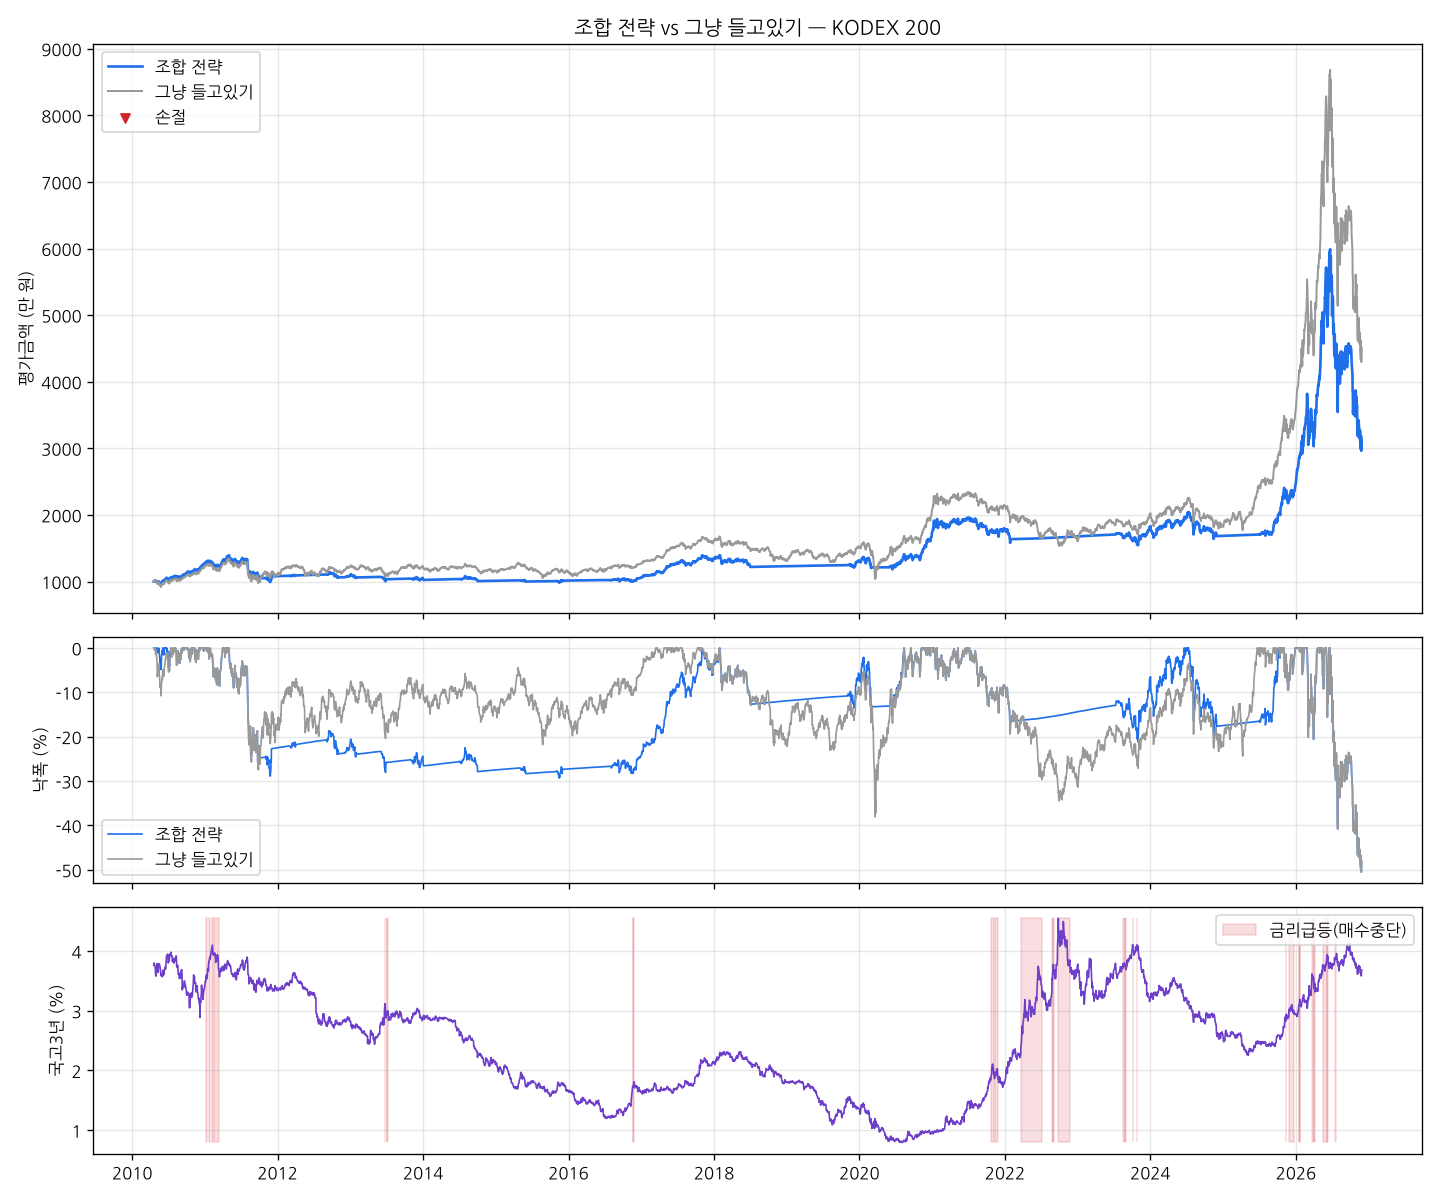
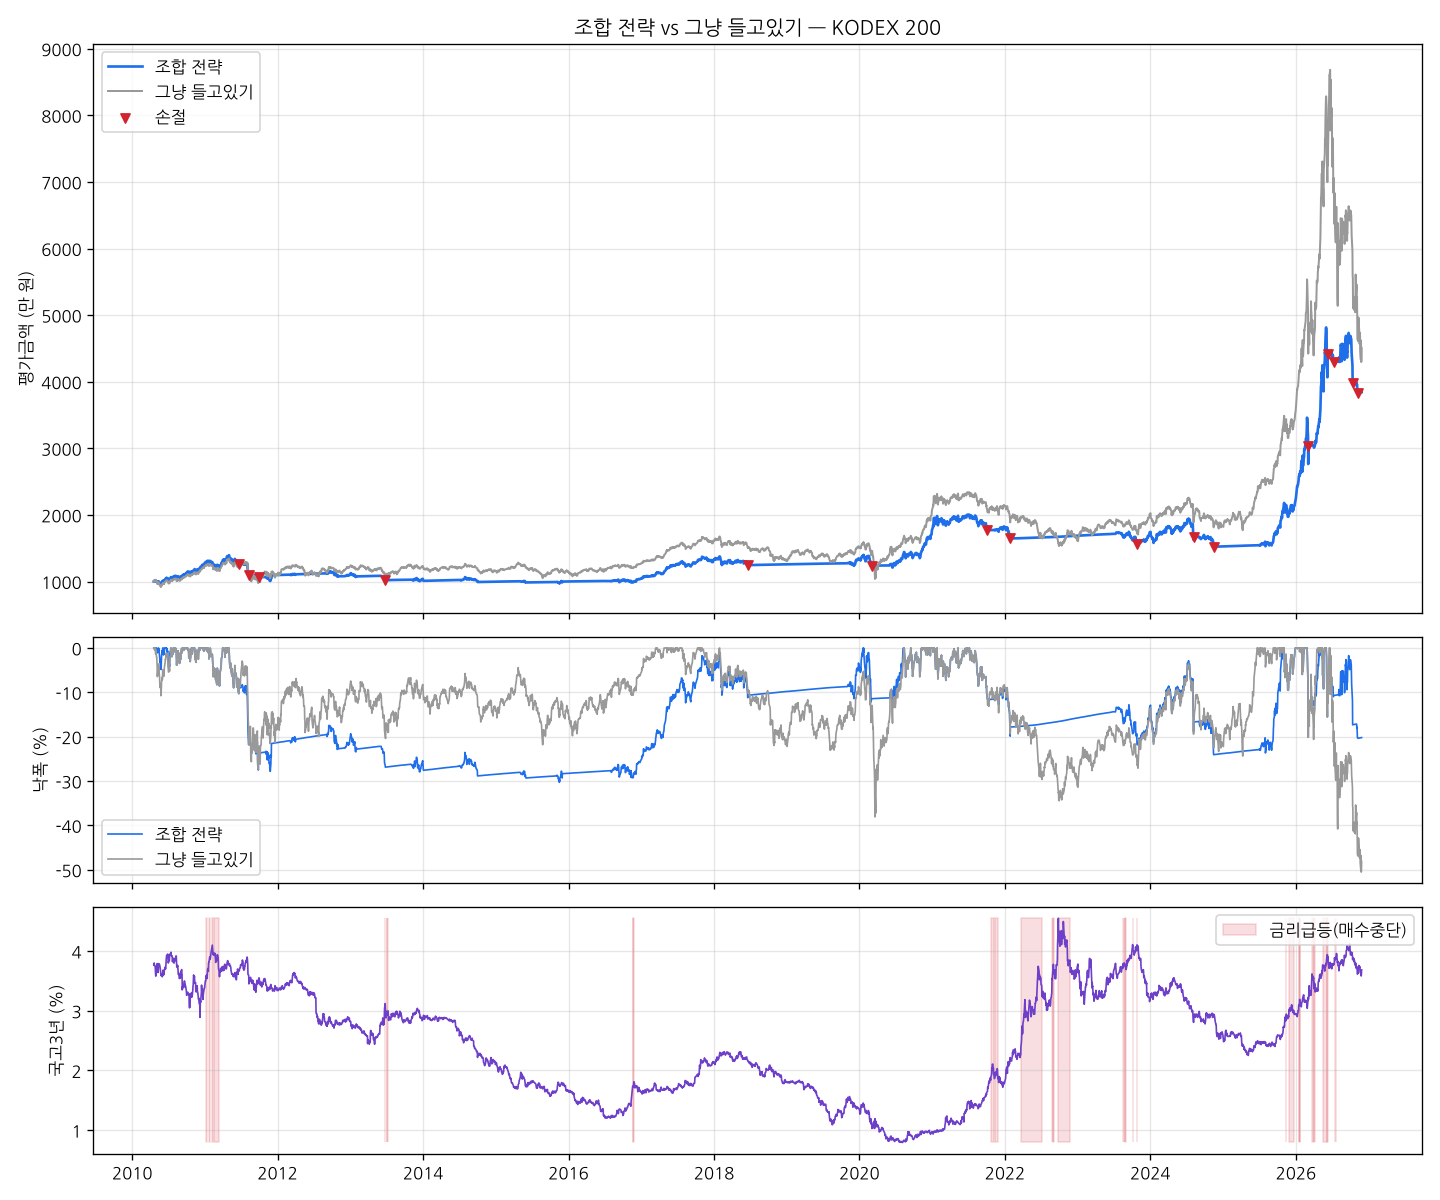
백테스트: 고점 기준 손절을 기본으로, 모멘텀 끄기 옵션, 조합·손절%·기간 나누기 비교
Claude-Session: https://claude.ai/code/session_01JXxfzmxBuWp5uQYYyGihoq

diff --git a/backtest/compare.py b/backtest/compare.py
@@ -1,50 +1,86 @@
 # -*- coding: utf-8 -*-
 """
-설정을 여러 가지로 바꿔 한 번에 비교하는 프로그램 (과최적화 점검용).
-실행: python compare.py
+규칙 조합을 여러 가지로 바꿔 한 번에 비교하는 프로그램.
+실행: python compare.py          (KODEX 200)
+      python compare.py KOSPI    (코스피 지수, 2008년 포함)
+
+표 3개를 보여줌:
+  ① 조합 비교      — 어떤 규칙을 켜고 끄느냐에 따라 결과가 어떻게 달라지나
+  ② 숫자 흔들기    — 손절 %를 바꿔도 결과가 비슷한가 (과최적화 점검)
+  ③ 기간 나누기    — 앞 절반 기간과 뒤 절반 기간에서 결과가 비슷한가 (과최적화 점검)
 """
 import pandas as pd
 
 from backtest import SETTINGS, apply_cli, load_prices, load_rates, run_backtest, stats
 
-# 비교할 설정들: 이름 → 기본 SETTINGS에서 바꿀 값
-VARIANTS = {
-    "기본 (4가지 다)": {},
-    "손절 -7%": {"손절_퍼센트": 7.0},
-    "손절 -15%": {"손절_퍼센트": 15.0},
-    "손절 고점기준 -10%": {"손절_기준": "고점"},
-    "손절 없음": {"손절_사용": False},
-    "금리필터 없음": {"금리필터_사용": False},
-    "분할매수 없음(한번에)": {"분할매수_횟수": 1},
-    "모멘텀 6개월": {"모멘텀_기간_개월": 6},
+ALL_OFF = {"금리필터_사용": False, "모멘텀_사용": False, "분할매수_횟수": 1, "손절_사용": False}
+
+# ① 조합: 이름 → 기본 SETTINGS에서 바꿀 값 (손절은 기본이 '고점 -10%')
+COMBOS = {
+    "고점손절만": {**ALL_OFF, "손절_사용": True},
+    "모멘텀 + 고점손절": {**ALL_OFF, "손절_사용": True, "모멘텀_사용": True},
+    "금리필터 + 고점손절": {**ALL_OFF, "손절_사용": True, "금리필터_사용": True},
+    "모멘텀 + 금리필터 + 고점손절": {**ALL_OFF, "손절_사용": True, "모멘텀_사용": True, "금리필터_사용": True},
+    "4가지 다 (새 기본)": {},
+    "4가지 다, 매수가손절 (예전 기본)": {"손절_기준": "매수가"},
+    "모멘텀만 (손절 없음)": {**ALL_OFF, "모멘텀_사용": True},
 }
+
+# ② 숫자 흔들기: 새 기본에서 손절 %만 바꿈
+STOP_SWEEP = {f"새 기본, 손절 -{x}%": {"손절_퍼센트": float(x)} for x in (5, 7, 10, 12, 15, 20)}
+
+# ③ 기간 나누기: (시작, 끝)
+PERIODS = {"앞 절반": ("2003-01-01", "2014-12-31"), "뒤 절반": ("2015-01-01", None)}
+
+
+def one_row(name, cfg, price, rates):
+    eq, tr = run_backtest(price, rates, cfg)
+    st = stats(eq["평가금액"])
+    sells = tr[tr["구분"] == "전량매도"] if len(tr) else tr
+    n_stop = int(sells["사유"].astype(str).str.startswith("손절").sum()) if len(sells) else 0
+    row = {"설정": name, "총수익률%": st["총수익률"], "연평균%": st["연평균수익률"],
+           "MDD%": st["최대낙폭MDD"], "매도횟수": len(sells), "손절횟수": n_stop,
+           "주식보유%": (eq["주식평가"] > 0).mean() * 100}
+    bh = stats(eq["가격"] / eq["가격"].iloc[0] * (1 - cfg["거래비용_퍼센트"] / 100))
+    bh_row = {"설정": "★ 그냥 들고있기", "총수익률%": bh["총수익률"], "연평균%": bh["연평균수익률"],
+              "MDD%": bh["최대낙폭MDD"], "매도횟수": 0, "손절횟수": 0, "주식보유%": 100.0}
+    period = f"{eq.index[0]:%Y-%m-%d} ~ {eq.index[-1]:%Y-%m-%d}"
+    return row, bh_row, period
+
+
+def table(rows):
+    return pd.DataFrame(rows).set_index("설정").round(1).to_string()
 
 
 def main():
     base = apply_cli(dict(SETTINGS))
     rates = load_rates()
     price = load_prices(base["종목코드"])
-    rows = []
-    bh_row = None
-    for name, change in VARIANTS.items():
-        cfg = {**base, **change}
-        eq, tr = run_backtest(price, rates, cfg)
-        st = stats(eq["평가금액"])
-        n_stop = int(tr["사유"].astype(str).str.startswith("손절").sum()) if len(tr) else 0
-        rows.append({"설정": name, "총수익률%": st["총수익률"], "연평균%": st["연평균수익률"],
-                     "MDD%": st["최대낙폭MDD"], "손절횟수": n_stop,
-                     "주식보유%": (eq["주식평가"] > 0).mean() * 100})
-        if bh_row is None:
-            bh = eq["가격"] / eq["가격"].iloc[0]
-            sb = stats(bh)
-            bh_row = {"설정": "그냥 들고있기", "총수익률%": sb["총수익률"], "연평균%": sb["연평균수익률"],
-                      "MDD%": sb["최대낙폭MDD"], "손절횟수": 0, "주식보유%": 100.0}
-            period = f"{eq.index[0]:%Y-%m-%d} ~ {eq.index[-1]:%Y-%m-%d}"
-    rows.append(bh_row)
-    df = pd.DataFrame(rows).set_index("설정")
     pd.set_option("display.unicode.east_asian_width", True)
-    print(f"기간: {period}")
-    print(df.round(1).to_string())
+
+    rows = []
+    for name, change in COMBOS.items():
+        row, bh_row, period = one_row(name, {**base, **change}, price, rates)
+        rows.append(row)
+    rows.append(bh_row)
+    print(f"\n① 조합 비교  ({base['종목이름']}, {period})")
+    print(table(rows))
+
+    rows = [one_row(n, {**base, **c}, price, rates)[0] for n, c in STOP_SWEEP.items()]
+    rows.append(bh_row)
+    print(f"\n② 숫자 흔들기: 손절 %만 바꿔보기  ({period})")
+    print(table(rows))
+
+    print("\n③ 기간 나누기: 새 기본 vs 그냥 들고있기")
+    for pname, (start, end) in PERIODS.items():
+        cfg = {**base, "시작일": start, "종료일": end}
+        try:
+            row, bh_row, period = one_row("4가지 다 (새 기본)", cfg, price, rates)
+        except SystemExit:
+            print(f"  {pname}: 데이터 부족으로 건너뜀")
+            continue
+        print(f"[{pname}] {period}")
+        print(table([row, bh_row]))
 
 
 if __name__ == "__main__":

diff --git a/backtest/test_backtest.py b/backtest/test_backtest.py
@@ -40,12 +40,40 @@ def test_stop_loss():
     crash = up[-1] * np.linspace(1, 0.80, 30)[1:]
     flat = np.full(len(DAYS) - len(up) - len(crash), crash[-1])
     p, r = make(np.concatenate([up, crash, flat]))
-    eq, tr = run_backtest(p, r, cfg())
+    eq, tr = run_backtest(p, r, cfg(손절_기준="매수가"))
     st = tr[tr["사유"].astype(str).str.startswith("손절")]
     assert len(st) >= 1, tr
     first = st.iloc[0]
     assert first["손익률"] <= -10 and first["손익률"] > -12, first
-    print(f"OK 손절: {first['날짜']:%Y-%m-%d} 손익률 {first['손익률']:.1f}%")
+    print(f"OK 손절(매수가 기준): {first['날짜']:%Y-%m-%d} 손익률 {first['손익률']:.1f}%")
+
+
+def test_trailing_stop():
+    """고점 기준: 산 뒤 최고가에서 -10% 빠지면, 매수가보다 위여도 판다."""
+    up = 100 * 1.002 ** np.arange(500)                     # 크게 오른 뒤
+    down = up[-1] * np.linspace(1, 0.85, 20)[1:]           # 고점 대비 -15%
+    flat = np.full(len(DAYS) - len(up) - len(down), down[-1])
+    p, r = make(np.concatenate([up, down, flat]))
+    eq, tr = run_backtest(p, r, cfg(모멘텀_사용=False))
+    st = tr[tr["사유"].astype(str).str.startswith("손절(고점")]
+    assert len(st) >= 1, tr
+    first = st.iloc[0]
+    peak = p.loc[:first["날짜"]].max()
+    drop = (first["가격"] / peak - 1) * 100
+    assert -12 < drop <= -10 and first["손익률"] > 0, (drop, first)
+    eq2, tr2 = run_backtest(p, r, cfg(모멘텀_사용=False, 손절_기준="매수가"))
+    assert tr2["사유"].astype(str).str.startswith("손절").sum() == 0   # 매수가 기준이면 안 걸림
+    print(f"OK 고점 손절: 고점 대비 {drop:.1f}%에서 매도, 그래도 수익 {first['손익률']:.1f}% (매수가 기준이면 0회)")
+
+
+def test_momentum_off():
+    """모멘텀을 끄면 하락장에서도 모멘텀 매도가 없다."""
+    up = 100 * 1.002 ** np.arange(500)
+    down = up[-1] * 0.999 ** np.arange(1, len(DAYS) - 500 + 1)
+    p, r = make(np.concatenate([up, down]))
+    eq, tr = run_backtest(p, r, cfg(손절_사용=False, 모멘텀_사용=False))
+    assert (tr["사유"] == "모멘텀 약세").sum() == 0 and (eq["주식평가"] > 0).iloc[-1]
+    print("OK 모멘텀 끄기: 모멘텀 매도 0회, 끝까지 보유")
 
 
 def test_rate_filter():
@@ -80,4 +108,6 @@ if __name__ == "__main__":
     test_stop_loss()
     test_rate_filter()
     test_momentum_exit()
+    test_trailing_stop()
+    test_momentum_off()
     print("모든 시험 통과")

diff --git a/backtest/backtest.py b/backtest/backtest.py
@@ -27,6 +27,7 @@ SETTINGS = {
     "금리_급등기준_퍼센트포인트": 0.50,  # 국고3년이 0.50%p 이상 오르면 '급등' → 신규매수 중단
 
     # --- ② 듀얼모멘텀 (매달 1번 점검) ---
+    "모멘텀_사용": True,           # False 면 모멘텀 판단 없이 늘 주식 (손절 뒤엔 다음 달 말에 다시 삼)
     "모멘텀_기간_개월": 12,        # 최근 12개월 수익률로 판단
     # 주식 12개월 수익률 > 같은 기간 안전자산(국고1년 금리) 수익률 이면 주식, 아니면 현금
 
@@ -37,8 +38,8 @@ SETTINGS = {
     # --- ④ 손절 ---
     "손절_사용": True,
     "손절_퍼센트": 10.0,           # -10% 떨어지면 전량 매도
-    "손절_기준": "매수가",         # "매수가" = 평균 매수가 대비 -10%
-                                   # "고점"   = 산 뒤 가장 높았던 가격 대비 -10% (추적 손절, 수익 지키기용)
+    "손절_기준": "고점",           # "고점"   = 산 뒤 가장 높았던 가격 대비 -10% (추적 손절, 수익 지키기용) ← 기본
+                                   # "매수가" = 평균 매수가 대비 -10% (오래 들고 있으면 거의 안 걸림)
 
     # --- 비용·현금 ---
     "거래비용_퍼센트": 0.10,       # 사고팔 때마다 수수료+슬리피지 합쳐 0.10% 가정
@@ -234,7 +235,7 @@ def run_backtest(price, rates, cfg):
             if past_p is not None and past_c is not None:
                 stock_ret = p / past_p - 1
                 safe_ret = cash_index.loc[day] / past_c - 1
-                want_stock = stock_ret > safe_ret
+                want_stock = (stock_ret > safe_ret) if cfg["모멘텀_사용"] else True
                 if want_stock and mode == "현금":
                     mode = "주식"
                     splits_left = n_split

diff --git a/backtest/README.md b/backtest/README.md
@@ -12,9 +12,11 @@ KODEX 200(코스피200 ETF) 과거 주가로 시험해 보는 프로그램이야
 | 규칙 | 내용 | 기본값 |
 |---|---|---|
 | ① 금리 필터 | 국고3년 금리가 최근 60거래일(약 3개월) 동안 **0.5%p 이상 오르면** 새로 사지 않음 (가진 건 유지) | 60일 / 0.5%p |
-| ② 듀얼모멘텀 | **매달 마지막 거래일**에 점검. 최근 12개월 주가 수익률이 같은 기간 현금(국고1년 금리) 수익보다 높으면 주식, 아니면 전부 팔고 현금 | 12개월 |
+| ② 듀얼모멘텀 | **매달 마지막 거래일**에 점검. 최근 12개월 주가 수익률이 같은 기간 현금(국고1년 금리) 수익보다 높으면 주식, 아니면 전부 팔고 현금. (`"모멘텀_사용": False`면 이 판단 없이 늘 주식) | 12개월 |
 | ③ 분할매수 | 주식으로 들어갈 땐 한 번에 안 사고 **4번에 나눠 같은 금액씩**, 5거래일(약 1주)마다 | 4회 / 5일 |
-| ④ 손절 | 평균 매수가보다 **-10%** 떨어지면 전량 매도. 다음 달 점검 때까지 다시 안 삼. (`"손절_기준": "고점"`으로 바꾸면 산 뒤 최고가 대비 -10%) | -10% |
+| ④ 손절 | **산 뒤 가장 높았던 가격(고점)보다 -10%** 떨어지면 전량 매도 (추적 손절). 다음 달 말 점검 때 다시 삼. (`"손절_기준": "매수가"`로 바꾸면 평균 매수가 대비 -10%) | 고점 -10% |
+
+> 💡 **고점 기준 손절이 뭐야?** 1만 원에 사서 1만5천 원까지 올랐다면, 1만5천 원의 -10%인 1만3,500원 밑으로 내려가면 판다는 뜻이야. 평균 매수가 기준(1만 원의 -10% = 9,000원)이면 1만5천 원에서 40% 가까이 빠져야 팔게 돼. 그래서 이번에 고점 기준을 기본으로 바꿨어.
 
 - 현금으로 있을 땐 국고1년 금리만큼 이자가 붙는다고 가정해.
 - 신호는 그날 **종가**로 판단하고, 실제 매매는 **다음 거래일 종가**로 처리해 (미래 정보를 미리 보는 반칙 방지).
@@ -88,12 +90,15 @@ python backtest.py
 `data` 폴더에 들어있는 주가(2026-11-27까지)로 바로 결과가 나와.
 **최신 주가로 다시 받고 싶으면** `data` 폴더 안의 `prices_069500.csv`를 지우고 다시 실행하면 인터넷에서 새로 받아 (1~2분).
 
-### 설정 여러 개 한 번에 비교 (과최적화 점검용)
+### 조합 여러 개 한 번에 비교 (과최적화 점검 포함)
 ```
 python compare.py
 ```
-손절 -7%/-15%, 고점 기준 손절, 금리필터 끄기, 분할매수 끄기, 모멘텀 6개월을 한 표로 보여줘.
-코스피 지수로 비교하려면 `python compare.py KOSPI`
+표 3개가 나와: ① 규칙 조합별 비교 ② 손절 %만 바꿔보기 ③ 기간을 앞/뒤로 나눠보기.
+코스피 지수로 비교하려면:
+```
+python compare.py KOSPI
+```
 
 ### 규칙이 제대로 움직이는지 확인 (선택)
 ```
@@ -123,35 +128,80 @@ python test_backtest.py
 
 ## 5. 실제로 돌려본 결과 (2026-11-28 실행)
 
-**KODEX 200, 배당 포함, 2010-04 ~ 2026-11** (`python compare.py`)
+> 아래 숫자는 `python compare.py`, `python compare.py KOSPI` 출력 그대로야.
+> "고점손절" = 산 뒤 최고가 대비 -10% 손절. 조합에 안 적힌 규칙은 끈 상태 (분할매수도 끔).
 
-| 설정 | 총수익률 | 연평균 | MDD | 손절 횟수 |
+### ① 조합 비교
+
+**KODEX 200 (배당 포함, 2010-04 ~ 2026-11)**
+
+| 조합 | 총수익률 | 연평균 | MDD | 손절 횟수 |
 |---|---|---|---|---|
-| 기본 (4가지 다) | 210.7% | 7.1% | -50.5% | 0 |
-| 손절 -7% | 185.9% | 6.5% | -50.5% | 2 |
-| 손절 고점기준 -10% | 284.2% | 8.4% | **-30.3%** | 16 |
-| 금리필터 없음 | 213.7% | 7.1% | -50.5% | 0 |
-| 분할매수 없음 | 188.7% | 6.6% | -50.5% | 1 |
-| 모멘텀 6개월 | 241.9% | 7.5% | -41.9% | 2 |
-| **그냥 들고있기** | **350.9%** | **9.5%** | -50.5% | - |
+| 고점손절만 | **464.7%** | **11.0%** | -34.8% | 24 |
+| 모멘텀 + 고점손절 | 223.5% | 7.3% | -38.1% | 16 |
+| 금리필터 + 고점손절 | 408.3% | 10.3% | -34.8% | 24 |
+| 모멘텀 + 금리필터 + 고점손절 | 223.9% | 7.3% | -38.1% | 16 |
+| 4가지 다 (새 기본) | 284.2% | 8.4% | **-30.3%** | 16 |
+| 4가지 다, 매수가손절 (예전 기본) | 210.7% | 7.1% | -50.5% | 0 |
+| **그냥 들고있기** | 350.9% | 9.5% | -50.5% | - |
 
-**코스피 지수, 2003-01 ~ 2026-11** (`python compare.py KOSPI`, 2008 금융위기 포함)
+**코스피 지수 (배당 미반영, 2003-01 ~ 2026-11, 2008년 위기 포함)**
 
-| 설정 | 총수익률 | 연평균 | MDD | 손절 횟수 |
+| 조합 | 총수익률 | 연평균 | MDD | 손절 횟수 |
 |---|---|---|---|---|
-| 기본 (4가지 다) | 200.4% | 4.7% | -48.4% | 1 |
-| 손절 고점기준 -10% | 287.5% | 5.8% | **-33.8%** | 22 |
-| 모멘텀 6개월 | 519.7% | 7.9% | -40.0% | 3 |
-| **그냥 들고있기** | **673.9%** | **8.9%** | -54.5% | - |
+| 고점손절만 | **953.8%** | **10.4%** | -49.4% | 41 |
+| 모멘텀 + 고점손절 | 226.0% | 5.1% | -38.9% | 22 |
+| 금리필터 + 고점손절 | 831.4% | 9.8% | -50.2% | 41 |
+| 모멘텀 + 금리필터 + 고점손절 | 228.2% | 5.1% | -38.5% | 22 |
+| 4가지 다 (새 기본) | 287.5% | 5.8% | **-33.8%** | 22 |
+| 4가지 다, 매수가손절 (예전 기본) | 200.4% | 4.7% | -48.4% | 1 |
+| **그냥 들고있기** | 673.9% | 8.9% | -54.5% | - |
+
+**쉽게 말하면**
+- **고점손절만** 쓴 게 두 시험 모두 수익 1등이었어. 대부분(약 92%) 주식에 있으면서 큰 하락 때만 빠져나왔기 때문이야.
+- **모멘텀을 넣으면 수익이 확 줄어.** 현금으로 있는 기간이 절반 가까이 되면서 상승장을 많이 놓쳤어. 대신 MDD는 가장 작아 (-30%대).
+- **금리필터는 수익을 조금 깎기만 했어** (KODEX 464.7% → 408.3%). 이 기간엔 도움이 안 됐어.
+- 즉, **"덜 잃기"를 원하면 4가지 다, "더 벌기"를 원하면 고점손절만** 쪽이야. 둘 다 동시에 최고인 조합은 없었어.
+
+### ② 숫자 흔들기 — 손절 %만 바꿔보기 (새 기본 기준)
+
+| 손절 | KODEX 총수익률 / MDD | 코스피 총수익률 / MDD |
+|---|---|---|
+| -5% | 125.4% / -23.7% | 127.3% / -36.6% |
+| -7% | 93.9% / -33.7% | 65.7% / -39.8% |
+| -10% | 284.2% / -30.3% | 287.5% / -33.8% |
+| -12% | 324.1% / -26.0% | 267.4% / -33.7% |
+| -15% | 308.4% / -28.8% | 240.6% / -32.2% |
+| -20% | 274.7% / -37.3% | 234.9% / -36.4% |
+
+⚠ **-7%와 -10%의 결과가 3~4배나 차이 나.** 숫자 하나 바꿨다고 이렇게 크게 흔들리면, 그 숫자가 "좋은 숫자"가 아니라 "과거에 운 좋게 맞은 숫자"일 수 있다는 신호야. -10%~-15% 구간은 비교적 비슷해서 그나마 덜 위험해 보여.
+
+### ③ 기간 나누기 — 새 기본 vs 그냥 들고있기
+
+| 기간 | 새 기본 총수익률 / MDD | 그냥 들고있기 총수익률 / MDD |
+|---|---|---|
+| KODEX 앞 절반 (2010-04 ~ 2014-12) | -0.2% / -28.8% | 15.4% / -27.4% |
+| KODEX 뒤 절반 (2015-01 ~ 2026-11) | 285.0% / -24.1% | 290.0% / -50.5% |
+| 코스피 앞 절반 (2003-01 ~ 2014-12) | 76.2% / -32.3% | 201.6% / -54.5% |
+| 코스피 뒤 절반 (2015-01 ~ 2026-11) | 119.9% / -33.7% | 155.2% / -48.5% |
+
+- 네 구간 모두 **수익은 그냥 들고있기가 이겼고, MDD는 전략이 더 작거나 비슷**했어. 결과 방향이 기간마다 일관된 건 좋은 신호야.
+
+### ④ 끝나는 날짜에 따라 달라지는 것 (중요)
+
+KODEX 200은 2026년 6월 고점 뒤 약 50% 빠진 상태로 시험이 끝나. 그래서 **하락 직전(2026-05-29)에 끝냈을 때**도 따로 봤어:
+
+| 끝나는 날 | 고점손절만 | 그냥 들고있기 |
+|---|---|---|
+| KODEX 2026-05-29 | 722.7% / MDD -30.5% | 689.8% / MDD -38.1% |
+| KODEX 2026-11-27 | 464.7% / MDD -34.8% | 350.9% / MDD -50.5% |
+| 코스피 2026-05-29 | 1425.4% / MDD -49.4% | 1234.4% / MDD -54.5% |
+| 코스피 2026-11-27 | 953.8% / MDD -49.4% | 673.9% / MDD -54.5% |
+
+- 하락 전에 끝내도 고점손절만이 조금 앞섰지만, **차이는 훨씬 작아져** (KODEX 114%p → 33%p). 최근 급락 하나가 결과를 크게 부풀리고 있다는 뜻이야.
 
 ![결과차트](예시_결과차트_KODEX200.png)
-
-**읽는 법 (요약)**
-- 두 기간 모두 **기본 조합은 그냥 들고있기보다 수익이 낮았어.** 현금으로 빠져있던 기간(약 44%)에 상승장을 놓친 게 커.
-- **평균 매수가 기준 -10% 손절은 거의 작동 안 했어** (0~1회). 오래 들고 있으면 매수가가 한참 아래라, 고점에서 50% 빠져도 매수가 밑으로는 안 내려가서야. 2026년 6~11월 하락(KODEX 200 고점 대비 약 -50%) 때 그대로 맞았어.
-- **고점 기준 손절**로 바꾸면 MDD가 -50% → -30%대로 줄고 수익도 올라갔어. 단, 손절이 16~22번으로 잦아져서 실제로는 수수료·세금·심리 부담이 더 커.
-- **금리필터, 분할매수는 결과 차이가 거의 없었어** (±1~2%p 정도). 이 기간엔 큰 역할을 못 했다는 뜻.
-- 모멘텀 6개월이 코스피에선 좋아 보이지만, 이게 바로 아래 '과최적화' 함정일 수 있어 — 8개 설정 중 제일 좋은 걸 고른 거니까.
+(차트는 새 기본 = 4가지 다 + 고점손절, KODEX 200)
 
 ## 6. ⚠ 과최적화(오버피팅) 주의 — 꼭 읽기
 
@@ -164,11 +214,14 @@ python test_backtest.py
 2. **숫자를 조금씩 흔들어 본다** — 손절 -8%, -10%, -12%에서 결과가 비슷해야 튼튼한 규칙이야. 한 숫자에서만 좋으면 의심.
 3. **거래 횟수가 적으면 운일 수 있다** — 손절이 몇 번 안 일어났다면 통계적으로 의미가 약해.
 4. **과거 수익 ≠ 미래 수익.** 실제 돈을 넣기 전엔 소액이나 모의투자로 몇 달 지켜보기.
+5. **"고점손절을 기본으로 바꾼 것" 자체도 같은 과거 데이터를 보고 고른 거야.** 그래서 이 선택도 과최적화일 수 있어. 진짜 검증은 앞으로의(아직 안 본) 데이터로만 할 수 있어.
 
 ## 7. 이 시험의 한계 (알고 쓰기)
 
 - KODEX 200 데이터는 배당 반영 가격이지만 **2009년 4월부터만** 있어 (야후 자료에 2007~2009 구간이 비어 있음). 그래서 2008년 금융위기는 코스피 지수로 따로 봐야 해.
 - 코스피 지수는 **배당 미반영**이야. 전략 쪽은 현금 이자를 받는데 들고있기 쪽은 배당을 못 받아서, 코스피 시험은 전략에 살짝 유리하게 나와 있어.
+- 고점손절은 자주 사고팔아 (16~41번). 비용 0.10%는 넣었지만, 실제로는 호가 차이·심리적 부담(팔고 나서 바로 오르는 경우)이 더 있을 수 있어.
+- 손절 뒤 다시 사는 시점을 "다음 달 말"로 정해뒀어. 이 규칙을 바꾸면 결과도 달라져.
 - 현금 이자는 국고1년 금리로 단순 계산했어 (실제 예금·CMA 금리와 다를 수 있음).
 - 하루에 종가 한 번만 보기 때문에, 장중에 -10%를 찍고 회복한 날은 손절로 안 잡혀.
 - 세금(ETF 매매차익은 국내주식형이라 비과세, 분배금은 15.4%)은 반영 안 했어.
